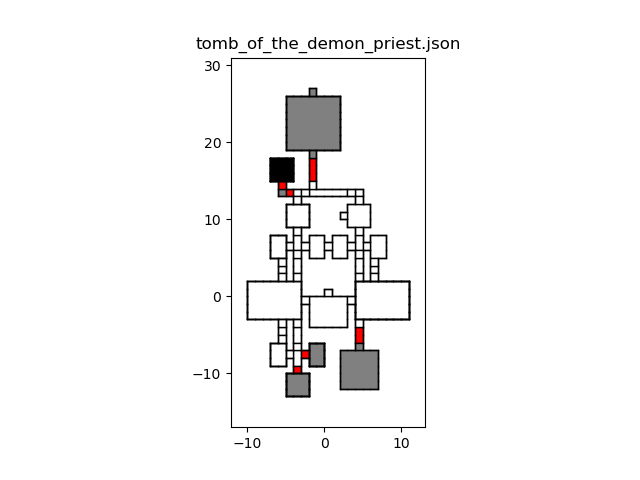
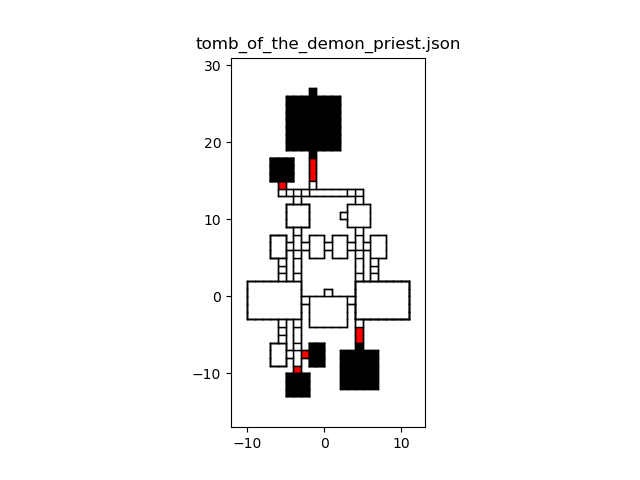
Filter doors from ramps

Changed region(s): [[0.4375, 0.7188, 0.5938, 0.8438], [0.4375, 0.1875, 0.5312, 0.3438], [0.4375, 0.375, 0.4688, 0.4062]]

diff --git a/Assets/Models/add-stories.py b/Assets/Models/add-stories.py
@@ -6,7 +6,7 @@ import random
 # Directory containing the JSON files
 directory = '.'
 
-def find_bridges(rooms):
+def find_bridges(rooms, doors):
     print("Starting ramp detection...")
 
     # Initialize all rooms as unvisited and clear previous types and stories
@@ -24,7 +24,7 @@ def find_bridges(rooms):
 
     # Identify bridge rooms
     for room_index, room in enumerate(rooms):
-        if is_valid_ramp(room, rooms):
+        if is_valid_ramp(room, rooms, doors):
             # Temporarily remove the room and test connectivity
             remaining_rooms = [r for i, r in enumerate(rooms) if i != room_index]
             new_components = get_connected_components(remaining_rooms)
@@ -234,9 +234,20 @@ def is_adjacent(room1, room2):
     return False
 
 # Check if a room is a valid ramp (1xN or Nx1) with opposite adjacency
-def is_valid_ramp(room, rooms):
+def is_valid_ramp(room, rooms, doors):
     # Check if the room is 1xN or Nx1
     if not (room['w'] == 1 or room['h'] == 1):
+        return False
+
+    # Check for disqualifying doors
+    disqualifying_door_types = {1, 2, 4, 6, 7}
+    room_has_disqualifying_door = any(
+        door['type'] in disqualifying_door_types and
+        door['x'] >= room['x'] and door['x'] < room['x'] + room['w'] and
+        door['y'] >= room['y'] and door['y'] < room['y'] + room['h']
+        for door in doors
+    )
+    if room_has_disqualifying_door:
         return False
 
     # Get adjacent rooms
@@ -276,10 +287,11 @@ for filename in os.listdir(directory):
             data = json.load(f)
 
         print(f"Processing file: {filename}")
-        data['rects'] = find_bridges(data['rects'])  # Detect and mark ramps
+        data['rects'] = find_bridges(data['rects'], data.get('doors', []))  # Pass the doors array
         data['rects'] = assign_stories(data['rects'])  # Assign stories
 
         with open(filepath, 'w') as f:
             json.dump(data, f, indent=4)
 
 print("All files processed with ramps and stories assigned.")
+

diff --git a/Assets/Models/convert_json_to_blend.py b/Assets/Models/convert_json_to_blend.py
@@ -806,7 +806,7 @@ def process_json_file(json_file):
 
     for door in data.get('doors', []):
         # Skip doors that don't meet the criteria
-        if not (door.get('type') in [1, 2, 4, 5, 6, 7] or (door['x'] == 0 and door['y'] == 0)):
+        if not (door.get('type') in [1, 2, 4, 6, 7] or (door['x'] == 0 and door['y'] == 0)):
             continue
 
         # Create the doorway if conditions are met
